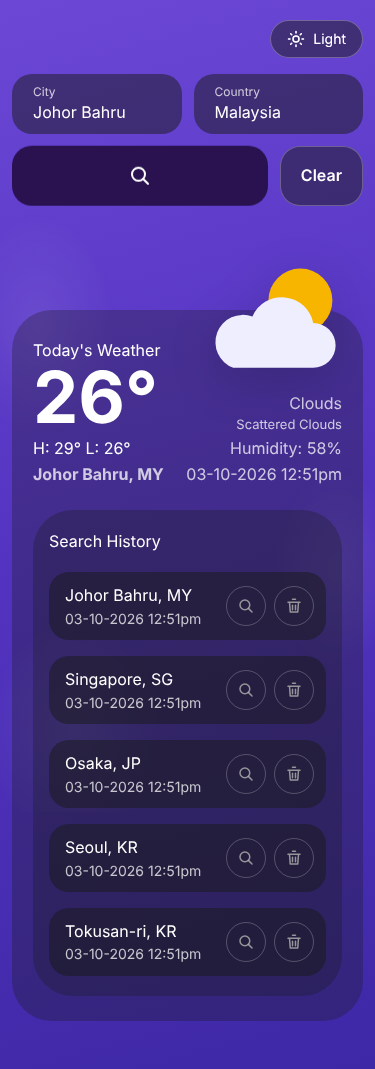
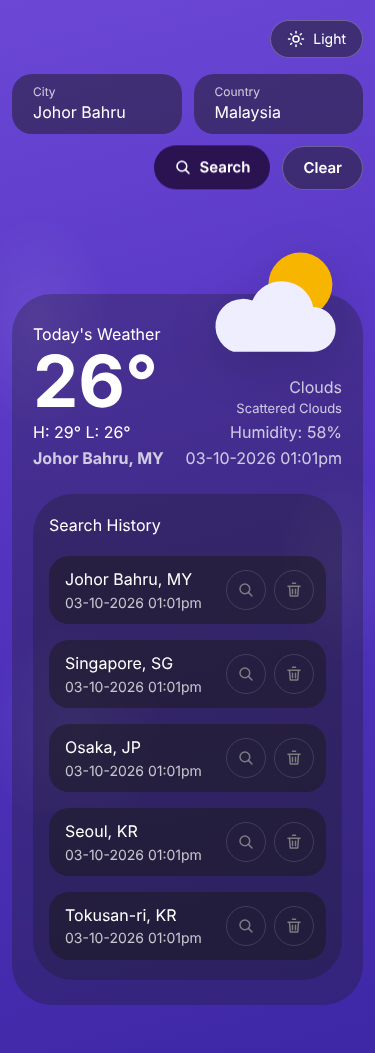
Make the mobile search button a compact labelled button

Changed region(s): [[0.0293, 0.0608, 0.968, 0.9117], [0.7627, 0.0304, 0.9387, 0.0608], [0.88, 0.4862, 0.9093, 0.5166]]

diff --git a/src/components/SearchForm/SearchForm.module.css b/src/components/SearchForm/SearchForm.module.css
@@ -48,7 +48,15 @@
   opacity: 0.8;
 }
 
-/* Mobile: inputs share the first row, buttons sit underneath. */
+/* Desktop shows the icon only, as in the mockup. */
+.searchText {
+  display: none;
+}
+
+/*
+ * Mobile: inputs share the first row; compact, labelled buttons sit underneath,
+ * aligned right so they read as actions rather than another input.
+ */
 @media (max-width: 640px) {
   .form {
     grid-template-columns: 1fr 1fr;
@@ -56,11 +64,30 @@
 
   .actions {
     grid-column: 1 / -1;
+    justify-content: flex-end;
+  }
+
+  .searchButton,
+  .clearButton {
+    height: 2.75rem;
+    border-radius: 999px;
+    font-size: 0.9375rem;
   }
 
   .searchButton {
-    flex: 1;
-    font-size: 1.5rem;
+    display: inline-flex;
+    align-items: center;
+    gap: 0.5rem;
+    width: auto;
+    padding: 0 1.25rem;
+  }
+
+  .searchButton svg {
+    font-size: 1.125rem;
+  }
+
+  .searchText {
+    display: inline;
   }
 }
 

diff --git a/src/components/SearchForm/SearchForm.tsx b/src/components/SearchForm/SearchForm.tsx
@@ -47,6 +47,8 @@ export function SearchForm({ values, onChange, onSearch, onClear, isLoading }: S
           title="Search"
         >
           {isLoading ? <Spinner /> : <SearchIcon />}
+          {/* Visible on mobile only, so the button can't be mistaken for an input. */}
+          <span className={styles.searchText}>{isLoading ? 'Searching…' : 'Search'}</span>
         </button>
         <button type="button" className={styles.clearButton} onClick={onClear}>
           Clear
